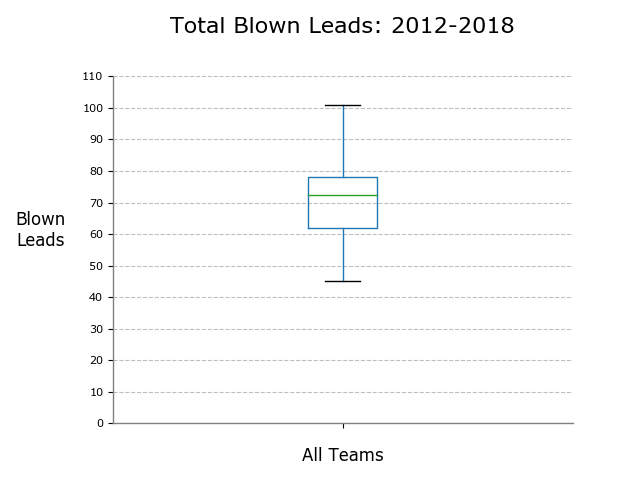
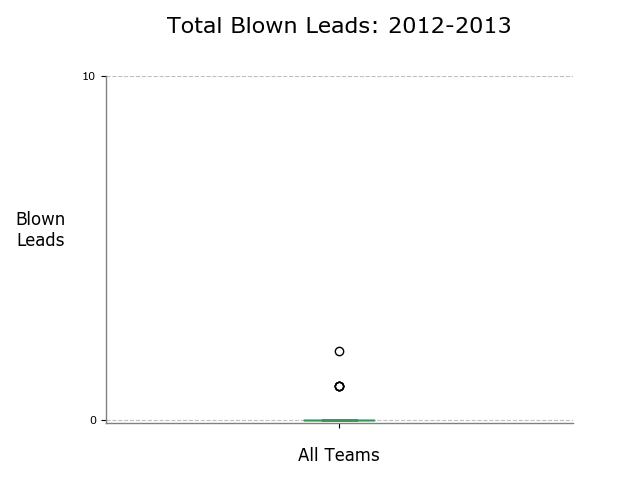
data analysis code commenting 9/27

diff --git a/src/box_score_data_analysis.py b/src/box_score_data_analysis.py
@@ -37,12 +37,12 @@ logger.info('FINISHED: Calculating the number of seasons in the data frame')
 
 # Calculating the number of total blown leads per team
 logger.info('STARTING: Preparing total blown leads data')
-blown_leads_total_data = data_analysis_utils_object.calculate_total_blown_leads(box_score_data_frame)
+blown_leads_total_data_frame = data_analysis_utils_object.calculate_total_blown_leads(box_score_data_frame)
 logger.info('FINISHED: Preparing total blown leads data')
 
 # Creating a bar chart of total blown leads per team
 logger.info('STARTING: Charting total blown leads data (bar chart)')
-blown_leads_total_data_frame = data_analysis_utils_object.plot_total_blown_leads_bar_chart(blown_leads_total_data, seasons)
+data_analysis_utils_object.plot_total_blown_leads_bar_chart(blown_leads_total_data_frame, seasons)
 logger.info('FINISHED: Charting total blown leads data (bar chart)')
 
 # Calculating the number of blown leads per team for each season
@@ -52,7 +52,7 @@ logger.info('FINISHED: Preparing total blown leads for each team and season data
 
 # Creating a bar chart of the most blown leads by any team in a season
 logger.info('STARTING: Charting the most blown leads by any team in a season (bar chart)')
-blown_leads_total_data_frame = data_analysis_utils_object.plot_most_blown_leads_per_team_season_bar_chart(blown_leads_per_team_season_data_frame, seasons)
+data_analysis_utils_object.plot_most_blown_leads_per_team_season_bar_chart(blown_leads_per_team_season_data_frame, seasons)
 logger.info('FINISHED: Charting the most blown leads by any team in a season (bar chart)')
 
 # Calculating the maximum and minimum number of blown leads by a team over the study period
@@ -71,31 +71,19 @@ min_blown_leads_per_season = data_analysis_utils_object.calculate_min_blown_lead
 min_blown_leads_per_season_data_frame = data_analysis_utils_object.create_min_blown_leads_per_season_data_frame(box_score_data_frame, min_blown_leads_per_season, seasons)
 logger.info('FINISHED: Preparing maximum and minimum number of blown leads for each season data')
 
-# mean, median, mode, range of blown leads for the league
+# Calculating the mean, median, and mode for the blown leads data for the entire study period
+logger.info('STARTING: Calculating the mean, median, and mode for the blown leads data for the entire study period')
 blown_leads_all_seasons_dict = {}
-blown_leads_all_seasons_dict['mean'] = blown_leads_total_data['blown_leads'].mean()
-blown_leads_all_seasons_dict['mode'] = blown_leads_total_data['blown_leads'].mode()[0]
-blown_leads_all_seasons_dict['median'] = blown_leads_total_data['blown_leads'].median()
-blown_leads_total_data_plot = blown_leads_total_data.plot(kind='box')
-blown_leads_total_data_plot.spines['right'].set_visible(False)
-blown_leads_total_data_plot.spines['top'].set_visible(False)
-blown_leads_total_data_plot.spines['left'].set_edgecolor('0.5')
-blown_leads_total_data_plot.spines['left'].set_linewidth(1)
-blown_leads_total_data_plot.spines['bottom'].set_edgecolor('0.5')
-blown_leads_total_data_plot.spines['bottom'].set_linewidth(1)
-plt.title(f'Total Blown Leads: {seasons[0]}-{seasons[-1]}', y=1.10, fontsize=16)
-plt.xlabel('All Teams', labelpad=10, fontsize=12)
-# hide the x tick label
-blown_leads_total_data_plot.set_xticklabels('')
-plt.ylabel('Blown\nLeads', rotation=0, labelpad=30, fontsize=12)
-y_ticks = calculate_y_ticks(blown_leads_total_data['blown_leads'].max())
+blown_leads_all_seasons_dict['mean'] = blown_leads_total_data_frame['blown_leads'].mean()
+blown_leads_all_seasons_dict['mode'] = blown_leads_total_data_frame['blown_leads'].mode()[0]
+blown_leads_all_seasons_dict['median'] = blown_leads_total_data_frame['blown_leads'].median()
+logger.info('FINISHED: Calculating the mean, median, and mode for the blown leads data for the entire study period')
 
-plt.yticks(y_ticks, fontsize=8)
-plt.xticks(fontsize=8)
-plt.grid(True, color='0.75', linestyle='--', which='both', axis='y')
-plt.subplots_adjust(right=0.5)
-plt.tight_layout()
-plt.savefig('results/blown_leads_total_data_box_plot.png')
+# Creating a box plot of total blown leads per team
+logger.info('STARTING: Charting total blown leads data (box plot)')
+data_analysis_utils_object.plot_total_blown_leads_box_plot(blown_leads_total_data_frame, seasons)
+logger.info('FINISHED: Charting total blown leads data (box plot)')
+
 
 # # mean, median, mode, range of blown leads for the league per season
 # seasons = list(box_score_data_frame['season'].unique())

diff --git a/utils/box_score_data_analysis_utils.py b/utils/box_score_data_analysis_utils.py
@@ -441,3 +441,39 @@ class BoxScoreDataAnalysisUtils:
 
         # outputs the plot
         plt.savefig('results/blown_leads_total_data_bar_chart.png')
+
+    def plot_total_blown_leads_box_plot(self, blown_leads_total_data_frame, seasons):
+        """Creates a box plot of the total number of blown leads per team.
+
+        Args:
+            blown_leads_total_data_frame: the dataframe containing the number of blown leads belonging to each team (producded in the calculate_total_blown_leads method)
+            seasons: a list the number of seasons in the study
+
+        Returns:
+            Technically nothing, but it creates a png file with a box plot of the total blown leads per team
+        """
+
+        blown_leads_total_data_plot = blown_leads_total_data_frame.plot(kind='bar')  # creates the plot object
+
+        # configures the chart borders
+        blown_leads_total_data_plot.spines['right'].set_visible(False)
+        blown_leads_total_data_plot.spines['top'].set_visible(False)
+        blown_leads_total_data_plot.spines['left'].set_edgecolor('0.5')
+        blown_leads_total_data_plot.spines['left'].set_linewidth(1)
+        blown_leads_total_data_plot.spines['bottom'].set_edgecolor('0.5')
+        blown_leads_total_data_plot.spines['bottom'].set_linewidth(1)
+
+        # configures the chart title, axis labels, axis ticks, grid, and spacing
+        plt.title(f'Total Blown Leads: {seasons[0]}-{seasons[-1]}', y=1.10, fontsize=16)
+        plt.xlabel('All Teams', labelpad=10, fontsize=12)
+        blown_leads_total_data_plot.set_xticklabels('')  # hides the x tick label
+        plt.ylabel('Blown\nLeads', rotation=0, labelpad=30, fontsize=12)
+        y_ticks = self.calculate_y_ticks(blown_leads_total_data_frame['blown_leads'].max())
+        plt.yticks(y_ticks, fontsize=8)
+        plt.xticks(fontsize=8)
+        plt.grid(True, color='0.75', linestyle='--', which='both', axis='y')
+        plt.subplots_adjust(right=0.5)
+        plt.tight_layout()
+
+        # outputs the plot
+        plt.savefig('results/blown_leads_total_data_box_plot.png')
